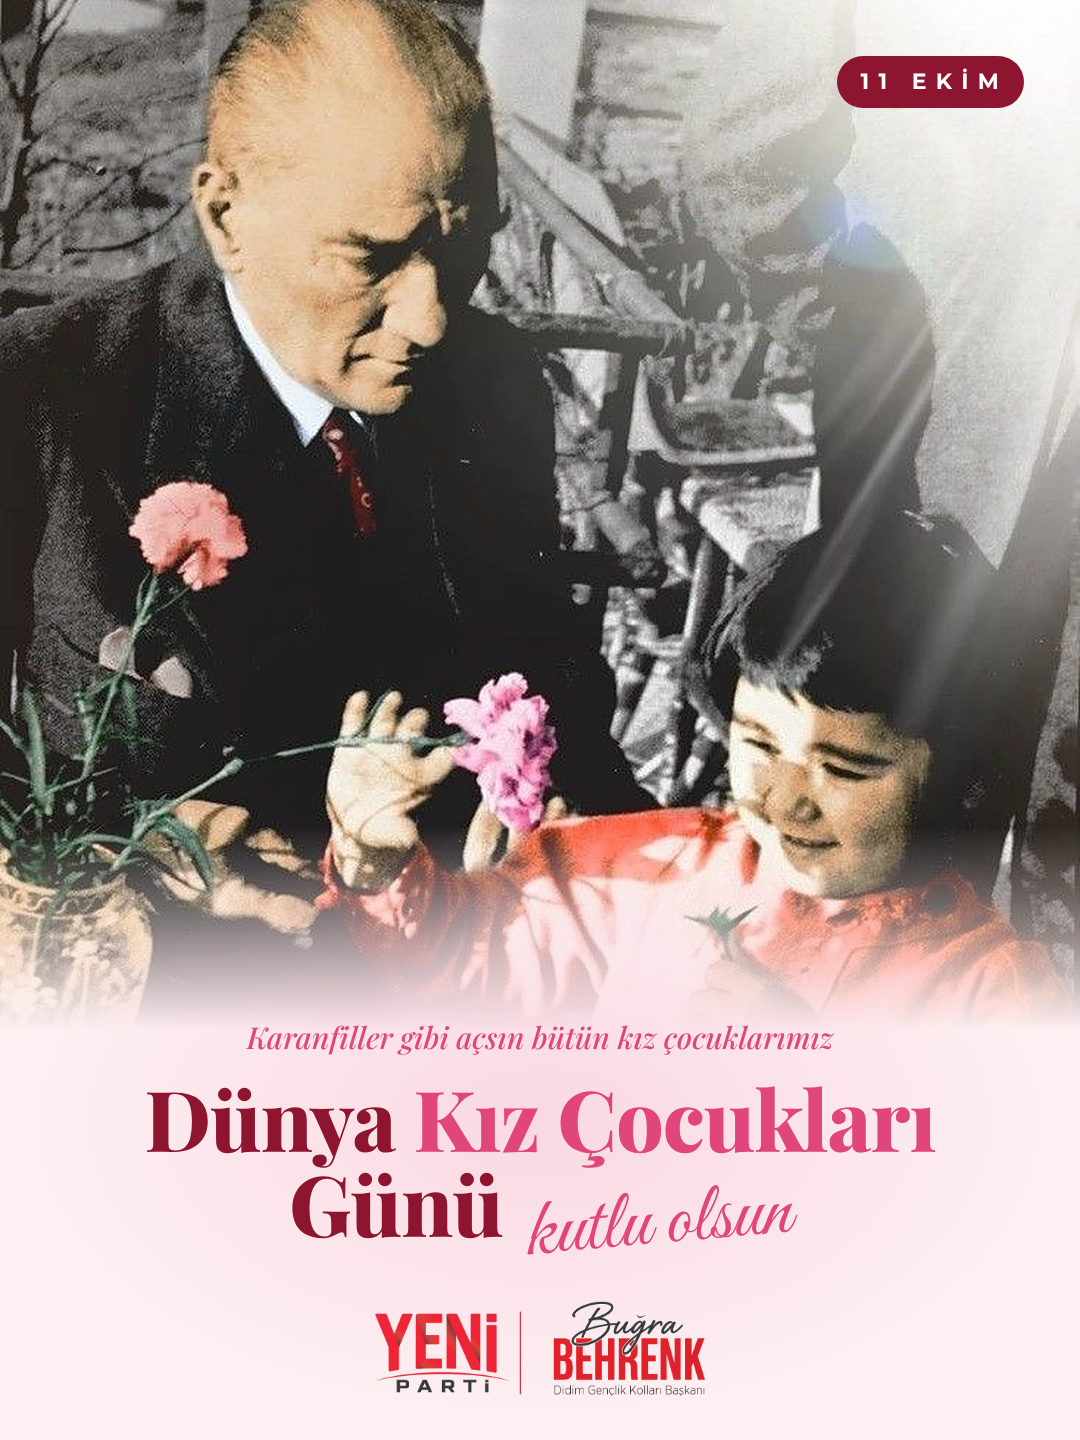
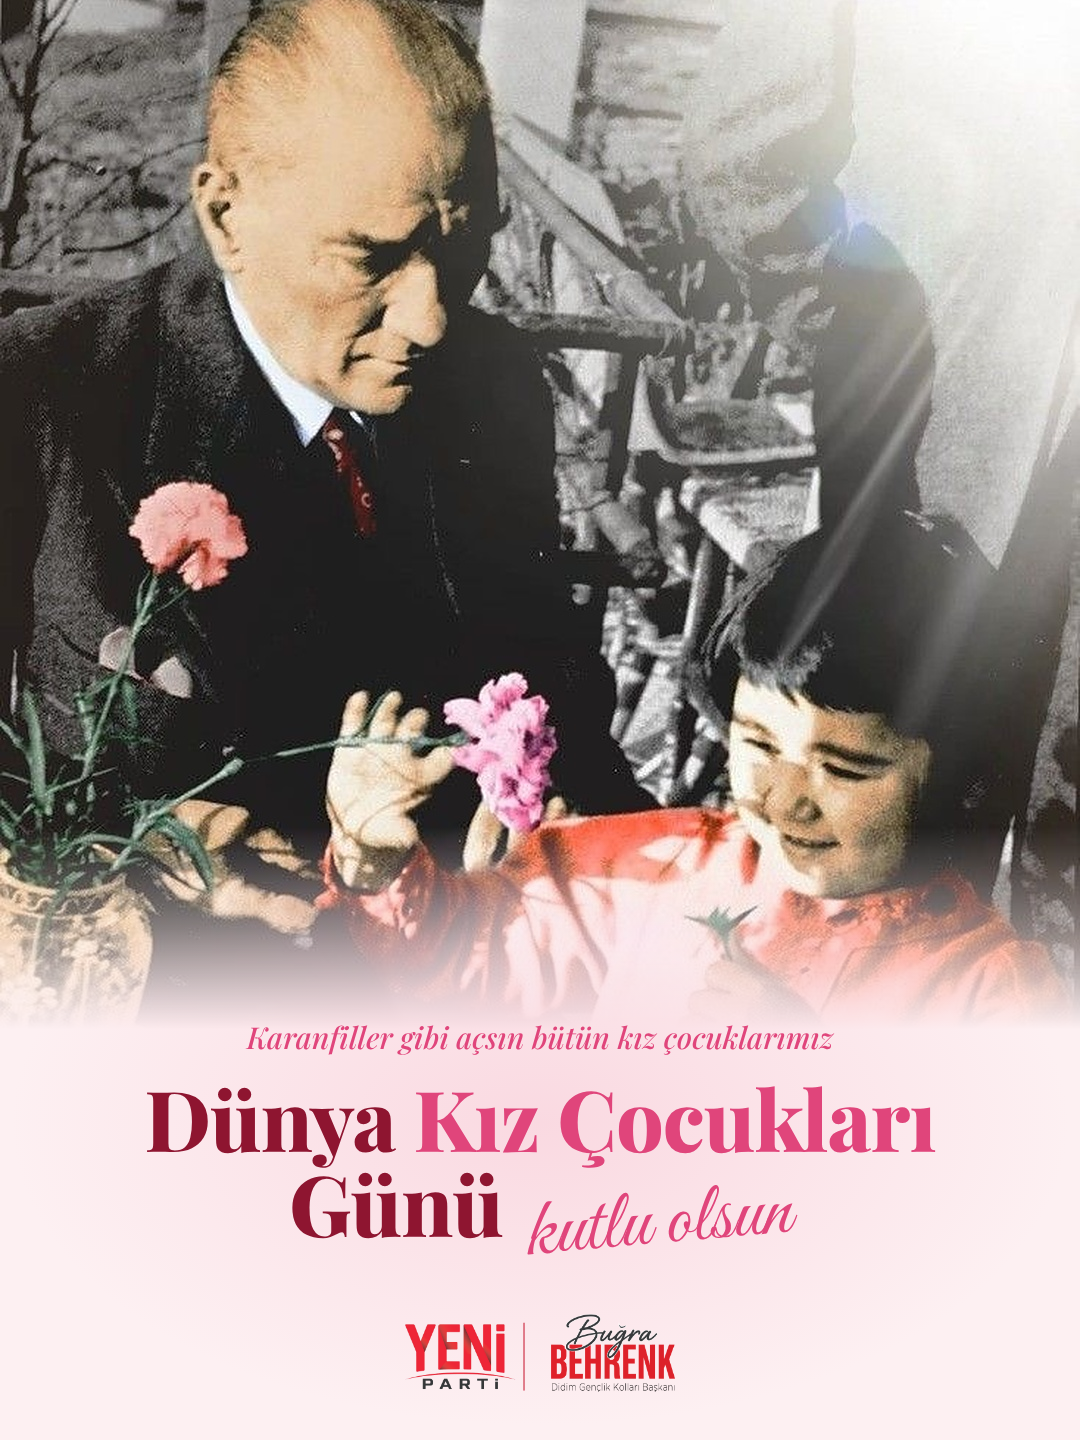
11 Ekim görselleri: tarih etiketi kaldırıldı, logolar küçültüldü
Claude-Session: https://claude.ai/code/session_01SatttGbgBLoCnk9KGLypWv

Changed region(s): [[0.3361, 0.9062, 0.6722, 0.9688], [0.7639, 0.0312, 0.9472, 0.0938]]

diff --git a/tasarim/kiz-cocuklari/koridor-didim.html b/tasarim/kiz-cocuklari/koridor-didim.html
@@ -31,7 +31,7 @@ body{position:relative;color:var(--krem)}
 .metin .el{margin-top:-6px;font:96px/1 El;color:var(--altin);margin-left:330px;transform:rotate(-5deg)}
 
 .logo-kutu{position:absolute;left:50%;bottom:34px;transform:translateX(-50%)}
-.logo{position:relative;width:835px;height:705px;zoom:.15}
+.logo{position:relative;width:835px;height:705px;zoom:.12}
 .logo img{position:absolute;left:0;top:0}
 .logo .sehir{position:absolute;left:0;width:852px;text-align:center;top:613px;font:800 119px/1 Sehir;color:#fff}
 </style>
@@ -40,7 +40,7 @@ body{position:relative;color:var(--krem)}
 <div class="isik"></div>
 
 
-<div class="ust">11 EKİM</div>
+
 
 <div class="metin">
   <div class="davet">Geleceğe koşan bütün kız çocuklarımızın</div>

diff --git a/tasarim/kiz-cocuklari/karanfil-bugra.html b/tasarim/kiz-cocuklari/karanfil-bugra.html
@@ -25,13 +25,13 @@ body{position:relative;color:var(--bordo)}
 .metin .b2{font:800 84px/1.04 Baslik;letter-spacing:-.012em;display:inline-block}
 .metin .el{display:inline-block;margin-left:22px;font:84px/1 El;color:var(--karanfil);transform:rotate(-5deg) translateY(6px)}
 
-.imza{position:absolute;left:50%;bottom:44px;width:330px;transform:translateX(-50%)}
+.imza{position:absolute;left:50%;bottom:48px;width:270px;transform:translateX(-50%)}
 </style>
 <body>
 <img class="foto" src="karanfil.jpg">
 <div class="pembe-isik"></div>
 
-<div class="etiket">11 EKİM</div>
+
 
 <div class="metin">
   <div class="ince">Karanfiller gibi açsın bütün kız çocuklarımız</div>
